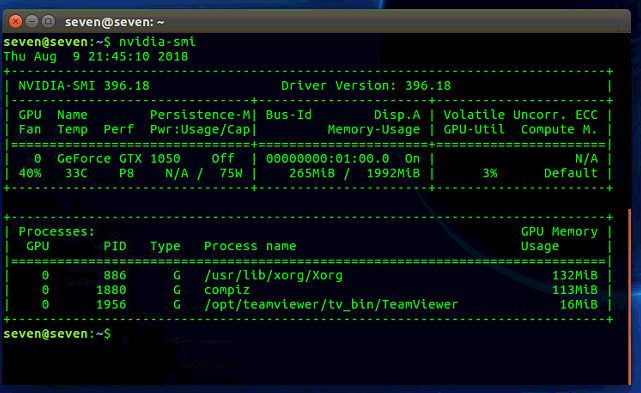
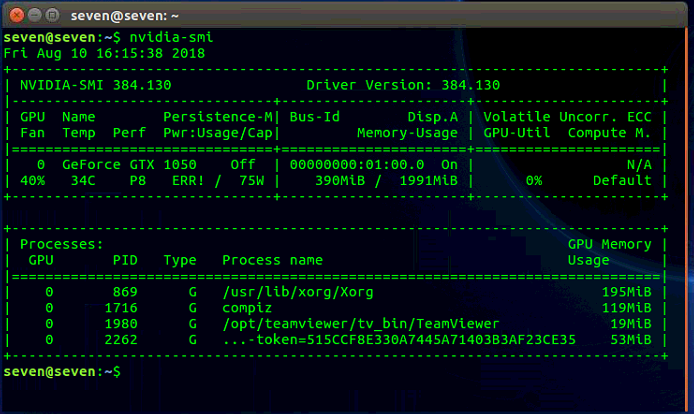
GPU

Changed region(s): [[0.0, 0.0, 1.0, 1.0], [0.312, 0.855, 0.3744, 0.8855], [0.8424, 0.855, 0.8736, 0.8855]]

diff --git a/_posts/2018-08-09-TensorFlow-ubuntu.md b/_posts/2018-08-09-TensorFlow-ubuntu.md
@@ -6,7 +6,7 @@ description: "TensorFlow安装，TensorFlow"
 tag: TensorFlow
 ---
 
-
+`系统：Ubuntu 16.04。显卡：GTX 1050，独显无集成显卡。 `
 
 ### Ubuntu TensorFlow-CPU安装
 
@@ -88,79 +88,11 @@ lspci | grep -i nvidia
 
 ### 安装NVIDIA驱动
 
-下载地址：https://www.geforce.cn/drivers
+- `System Setting `-->`software&Updates`-->`Additional Drives`，然后选择`NVIDIA`驱动
 
-![image](/images/dl/25.png)
+  ![image](/images/dl/41.png)
 
-#### **准备工作**
-
-在待安装驱动的主机上打开一个终端(Ctrl+Alt+T)，或者直接切换到终端界面(Ctrl+Alt+F1),进行如下操作 
-
-- 卸载可能存在的旧版本 nvidia 驱动（对没有安装过 nvidia 驱动的主机，这步可以省略，但推荐执行，以防万一） 
-
-- ```
-  sudo apt-get remove --purge nvidia*
-  ```
-
-  安装驱动可能需要的依赖(可选) 
-
-  ```
-    sudo apt-get update
   
-    sudo apt-get install dkms build-essential linux-headers-generic
-  ```
-
-- 把 nouveau 驱动加入黑名单 
-
-- ```
-  sudo nano /etc/modprobe.d/blacklist-nouveau.conf
-  
-  在文件 blacklist-nouveau.conf 中加入如下内容：
-    blacklist nouveau
-    blacklist lbm-nouveau
-    options nouveau modeset=0
-    alias nouveau off
-    alias lbm-nouveau off
-  
-  ```
-
-  禁用 nouveau 内核模块 
-
-  ```
-  echo options nouveau modeset=0 | sudo tee -a /etc/modprobe.d/nouveau-kms.conf
-  
-  sudo update-initramfs -u
-  ```
-
-- 重启电脑，然后终端输入
-
-- ```
-  lsmod | grep nouveau
-  ```
-
-  如果没有内容输出，那就禁用成功了。
-
-#### **开始安装**
-
-- 禁用X server
-
-- ```
-  Ctrl + Alt + F1   ===> 进入命令行模式
-  
-  sudo service lightdm stop   ===> 禁用X server
-  ```
-
-  安装驱动
-
-  ```
-  sudo chmod u+x NVIDIA-Linux-x86_64-361.45.11.run
-  
-  sudo ./NVIDIA-Linux-x86_64-361.45.11.run
-  ```
-
-- 如果出现`The distribution-provided pre-install script failed! `不必理会，继续安装
-
-- 最重要的：第一个选`NO`，在选择`would you like to run the nvidia-xconfig ...............when you restart X?`--选择`YES`;否则在启动X-windows的时候不会使用NVIDIA驱动。
 
 - 安装成功--重启电脑
 
@@ -194,10 +126,10 @@ nvidia-smi
 
 由上图可以看出，我这台演示电脑的
 
-- 版本驱动号：`391.24`
-- 对应版本：`CUDA：9.1`
+- 版本驱动号：`384.130`
+- 对应版本：`CUDA：8.0`
 
-所以我们对应的CUDA的下载版本就是9.1，下载网站：https://developer.nvidia.com/cuda-toolkit-archive 
+所以我们对应的CUDA的下载版本就是8.0，注意我下载的是`runfile`，下载网站：https://developer.nvidia.com/cuda-toolkit-archive 
 
 ![image](/images/dl/32.png)
 
@@ -205,102 +137,131 @@ nvidia-smi
 
 进入安装包的路径执行以下命令（注意版本号）
 
-- `sudo dpkg -i cuda-repo-ubuntu1604-9-1-local_9.1.85-1_amd64.deb`
-- `sudo apt-key add /var/cuda-repo-9-1-local/7fa2af80.pub`
-- `sudo apt-get update`
-- `sudo apt-get install cuda`
+- ```
+  sudo sh cuda_8.0.61_375.26_linux.run
+  ```
+
+按照命令行提示 在安装过程中会询问是否安装显卡驱动，由于我们在第一步中已经安装，所以我们选择否（不安装） 
+
+![image](/images/dl/38.png)
 
 然后等待，安装完成。
 
-![image](/images/dl/33.png)
+安装完成后可能会有警告，提示samplees缺少必要的包： 
+
+```
+Missing recommended library: libGLU.so
+
+Missing recommended library: libX11.so
+
+Missing recommended library: libXi.so
+
+Missing recommended library: libXmu.so
+
+Missing recommended library: libGL.so
+```
+
+原因是缺少相关的依赖库,安装相应库就解决了： 
+
+```
+sudo apt-get install freeglut3-dev build-essential libx11-dev libxmu-dev libxi-dev libgl1-mesa-glx libglu1-mesa libglu1-mesa-dev 
+```
+
+![image](/images/dl/39.png)
+
+
+
+### 配置环境变量
+
+打开shell运行： `gedit ~/.bashrc `
+
+加入如下内容： 
+
+```
+export PATH=/usr/local/cuda-8.0/bin:$PATH
+export LD_LIBRARY_PATH=/usr/local/cuda-8.0/lib64:$LD_LIBRARY_PATH
+```
+
+立即生效，运行`source ~/.bashrc` 
+
+### 测试是否安装成功
+
+- 查看CUDA版本:` nvcc -V`
+
+- ```
+  seven@seven:~$  nvcc -V
+  nvcc: NVIDIA (R) Cuda compiler driver
+  Copyright (c) 2005-2017 NVIDIA Corporation
+  Built on Fri_Nov__3_21:07:56_CDT_2017
+  Cuda compilation tools, release 8.0, V8.0.61
+  ```
+
+  1. 编译 CUDA Samples
+     进入samples的安装目录
+     我们选择其中一个进行编译验证下如：
+
+![image](/images/dl/40.png)
+
+如果没有报错，则安装完成 
+
+
 
 ### 安装cuDNN
 
 同样，根据我们的驱动程序版本号：我们下载的对应版本： 
 
-- 版本驱动号：`391.24`
-- 对应版本：`CUDA：9.1`
-- 对应版本：`cuDNN: v7.13`
+- 版本驱动号：`384.130`
+- 对应版本：`CUDA：8.0`
+- 对应版本：`cuDNN: v6.0`
 
 下载网址：https://developer.nvidia.com/rdp/cudnn-archive 
 
 ![image](/images/dl/34.png)
 
-![image](/images/dl/35.png)
+
 
 ### 安装说明
 
 - 解压下载好的安装包以后会出现cuda的目录，进入该目录 执行以下命令
 
 - ```
-  cd cuda/include/   
-  sudo cp cudnn.h /usr/local/cuda-9.1/include/   
-  cd ../lib64   
-  sudo cp lib* /usr/local/cuda-9.1/lib64/   
-  sudo chmod a+r /usr/local/cuda-9.1/include/cudnn.h/ usr/local/cuda-9.1/lib64/libcudnn*
+  cd ~
+  tar -zxf cudnn-8.0-linux-x64-v5.1.tgz
+  cd cuda
+  sudo cp lib64/* /usr/local/cuda/lib64/
+  sudo cp include/* /usr/local/cuda/include/
   ```
 
-  接下来执行以下命令： 
 
-  ```
-  cd /usr/local/cuda-9.1/lib64/   
-  sudo rm -rf libcudnn.so libcudnn.so.5   
-  sudo ln -s libcudnn.so.5.1.5 libcudnn.so.5   
-  sudo ln -s libcudnn.so.5 libcudnn.so
-  ```
 
-- 在终端中输入以下命令进行环境变量的配置： 
 
-- ```
-  sudo gedit /etc/profile
-  ```
+### 安装完成
 
-  在末尾加上： 
+至此，CUDA与cuDNN已经安装完成
 
-  ```
-  PATH=/usr/local/cuda-9.1/bin:$PATH   
-  export PATH
-  ```
 
-- 创建链接文件 
-
-- ```
-  sudo gedit /etc/ld.so.conf.d/cuda.conf
-  ```
-
-  在该文件末尾加入 
-
-  ```
-  /usr/local/cuda/lib64
-  ```
-
-- 然后使用ldconfig使之生效 
-
-- ```
-  sudo ldconfig
-  ```
-
-  
 
 ### 安装 TensorFlow-GPU
+
+备注：我用的是cuda 8.0和cudnn6.0 所以TensorFlow的版本应该是1.4
 
 最简单的方式是使用pip安装：
 
 ```
 # Python 2.7
-pip install --upgrade tensorflow-gpu
+pip install --upgrade tensorflow-gpu==1.4
 # Python 3.x
-pip3 install --upgrade tensorflow-gpu
+pip3 install --upgrade tensorflow-gpu==1.4
 ```
 
 如果你网速很慢的话，你可以选择离线安装。
 
-下载所需的离线包：https://pypi.org/project/tensorflow-gpu/#files
+下载所需的离线包：https://github.com/tensorflow/tensorflow/tags
 
 打开终端，进入你保存文件的目录，使用命令
 
 ```
-pip3 install tensorflow_gpu-1.10.0-cp36-cp36m-win_amd64.whl
+pip3 install tensorflow_gpu-1.4.0-cp35-cp35m-manylinux1_x86_64.whl 
 ```
 
 然后等待，直至安装成功。 
@@ -322,7 +283,13 @@ print(sess.run(hello))
 
 看到如下的输出，表示安装正确。 
 
+![image](/images/dl/42.png)
+
 ```
 Hello, TensorFlow!
 ```
+
+
+
+
 
